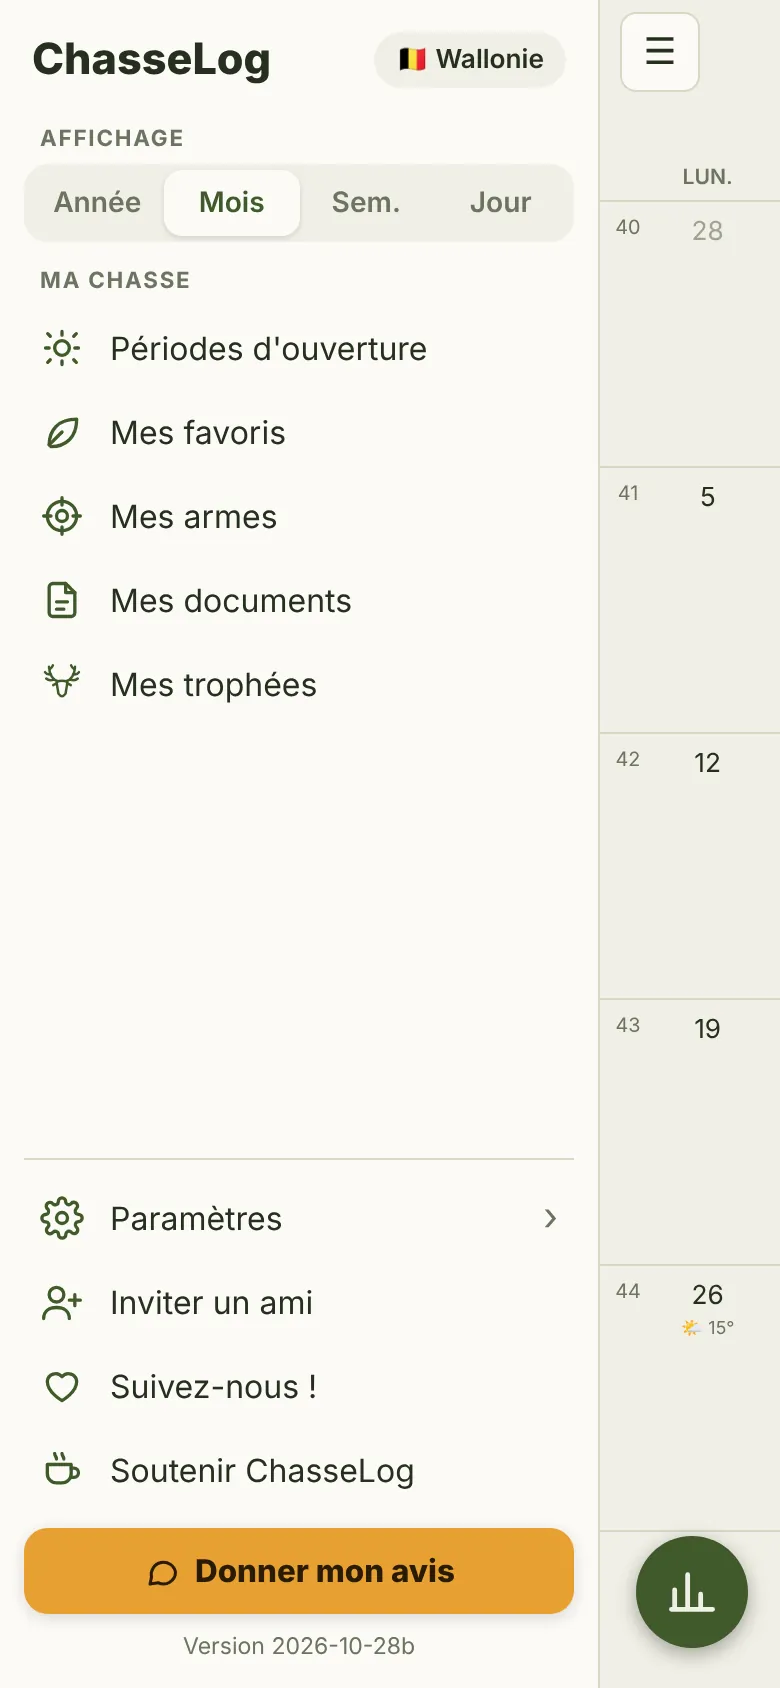
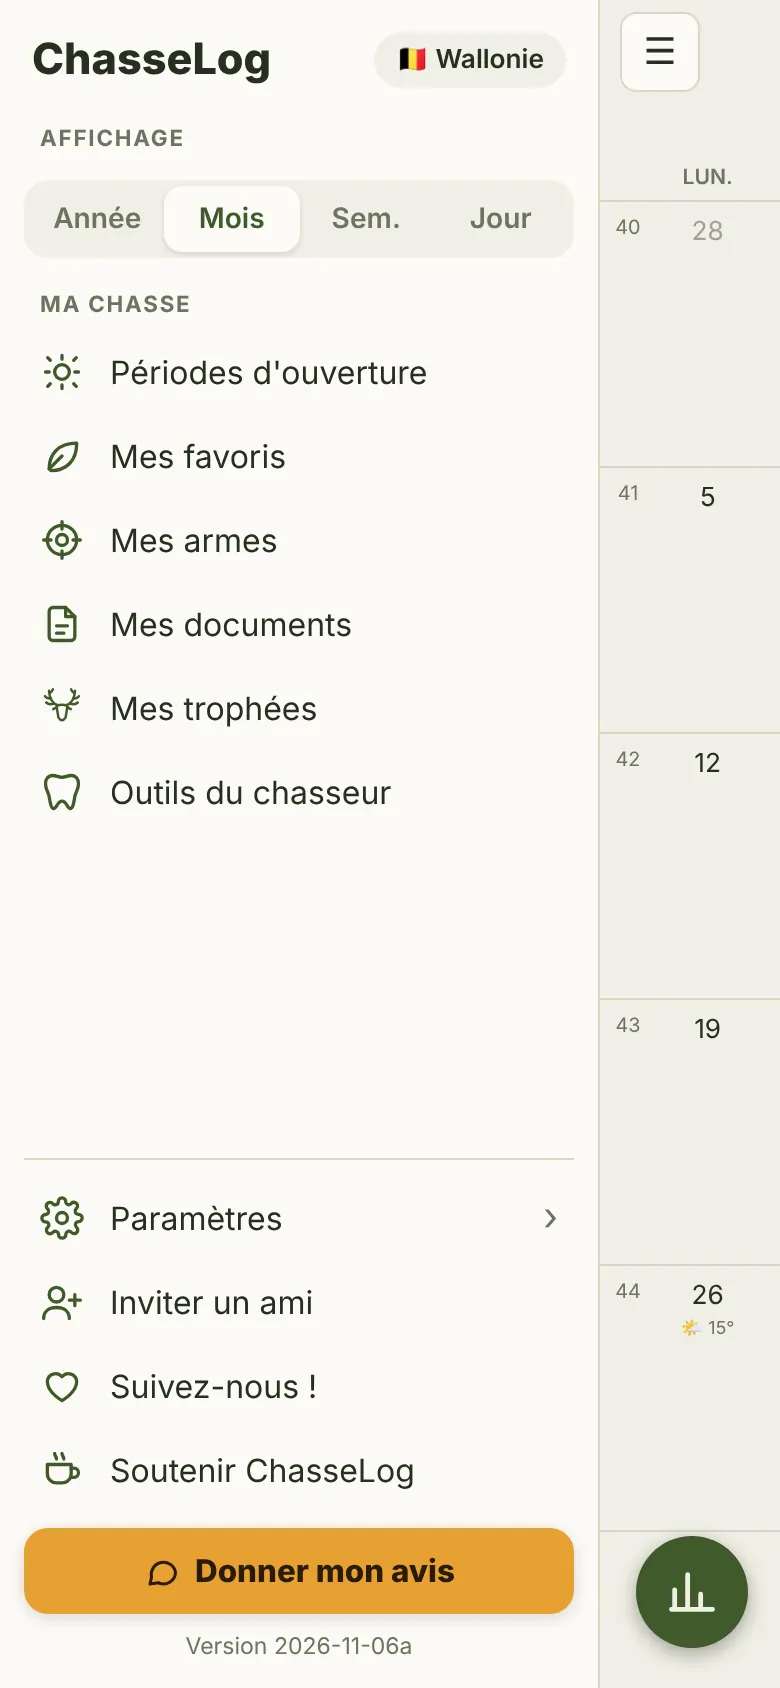
Proposition : visite guidée en 12 étapes (invitation, outils du chasseur, nouveaux écrans menu, journée et statistiques)
Claude-Session: https://claude.ai/code/session_0186hciEuPyU4mgRMjZZiZQe

diff --git a/index.html b/index.html
@@ -842,17 +842,19 @@ let BIP=null;addEventListener("beforeinstallprompt",e=>{e.preventDefault();BIP=e
  })();
 
 /* ---------- visite guidée « Découvre l'application » ---------- */
-const TAPS={"bang":[195,793],"cpl":[283.1,101.5],"dadd":[195,129.1],"dvid":[73.3,421.8],"fab":[344,796],"fsave":[261.3,804.8],"kg":[250,501.3],"mdoc":[149.5,300],"mn":[30,26],"mtro":[149.5,342],"muok":[285,807],"ok":[261.3,813.9],"om":[198.2,156.9],"ouv":[149.5,174],"plus":[80.7,200.5],"psok":[330.8,762.3],"pst":[195,26],"sang":[71.7,172.8],"save":[285.5,813],"share":[195,152.3],"sprev":[258,80.6],"stats":[46,796],"tabplus":[344,464.2],"tb":[195,458],"tgg":[195,484.5],"tgrid":[351.5,171.6],"title":[195,276.5],"tka":[329,501.3],"tok":[195,807.2],"tro1":[249,523.3]};
+const TAPS={"bang":[195,793],"cpl":[283.1,101.5],"dadd":[195,129.1],"dvid":[73.3,421.8],"fab":[344,796],"fsave":[261.3,804.8],"kg":[250,501.3],"mdoc":[149.5,312],"mn":[30,26],"mtro":[149.5,354],"muok":[285,807],"ok":[261.3,813.9],"om":[198.2,156.9],"ouv":[149.5,186],"plus":[80.7,200.5],"psok":[330.8,762.3],"pst":[195,26],"sang":[71.7,172.8],"save":[285.5,813],"share":[195,152.3],"sprev":[258,80.6],"stats":[46,796],"tabplus":[344,464.2],"tb":[195,458],"tgg":[195,484.5],"tgrid":[351.5,171.6],"title":[195,276.5],"tka":[329,501.3],"tok":[195,807.2],"tro1":[249,523.3],"mout":[149.5,396],"oiv":[195,654]};
 // étapes : [titre, texte, actions]. Actions : ["s",écran] afficher, ["sl",écran] défiler, ["t",bouton] toucher, ["n",note] note jaune, ["w",ms] attendre, ["r",bouton] anneau, ["i",image] image par-dessus
 const TOUR=[
  ["Consulte les périodes d'ouverture","Les dates d'ouverture et de fermeture du gibier dans ta région (Wallonie ou ton département en France), selon ton mode de chasse.",[["s","cal0"],["w",1400],["t","mn"],["s","drawer"],["w",1500],["t","ouv"],["s","ouv0"],["n","Ce qui est ouvert aujourd'hui, avec la frise de la saison"],["w",3200],["t","om"],["s","ouv1"],["n","Choisis ton mode : battue, approche et affût, chasse à vol"],["w",2800],["sl","ouv2"],["w",1500]]],
  ["Ajoute une journée de chasse","Touche + pour créer ta journée : titre, type de chasse, heure de rendez-vous et lieu.",[["s","cal0"],["w",1300],["t","fab"],["s","form0"],["n","La météo et les heures de lever et coucher du soleil s'affichent"],["w",3000],["t","title"],["s","form1"],["n","Le lieu se remplit tout seul si tu l'as déjà utilisé"],["w",3000],["t","save"],["s","calday"],["w",1500]]],
+ ["Invite un ami à ta journée","Envoie-lui l'invitation par WhatsApp ou SMS : la journée arrive toute prête dans son ChasseLog.",[["s","inv0"],["w",1300],["t","oiv"],["s","inv1"],["n","Écris son prénom, puis envoie le lien"],["w",3000],["s","inv2"],["n","Sa réponse met ta journée à jour"],["w",2800]]],
  ["Le jour J, le bouton BANG apparaît","Le jour de ta chasse, un gros bouton BANG s'affiche en bas du calendrier.",[["s","calday"],["w",900],["r","bang"],["w",3500]]],
  ["Encode ton numéro de poste","Touche « N° de poste » en haut de l'écran. Il reste affiché toute la journée.",[["s","calday"],["w",1200],["t","pst"],["s","poste"],["n","Tape ton numéro, puis valide"],["w",2600],["t","psok"],["s","calposte"],["n","« Poste n° 7 » reste affiché jusqu'au soir"],["w",2500]]],
  ["Un tir ? Appuie sur BANG !","Au poste, ton tir est encodé en quelques secondes. Le reste se complète le soir.",[["s","calposte"],["w",1200],["t","bang"],["s","pick"],["n","Choisis le gibier"],["w",2600],["t","sang"],["s","quick0"],["n","Choisis le résultat : prélevé, manqué ou blessé"],["w",2800],["t","plus"],["s","quick1"],["n","Le nombre d'animaux, les munitions, ta position GPS, et le sexe pour un sanglier"],["w",3400],["t","ok"],["s","calsaved"],["n","C'est enregistré !"],["w",2200]]],
  ["Complète les infos en fin de journée","Le soir, ChasseLog te rappelle ce qu'il manque : poids vidé, cors, sexe, photo, tableau final et munitions.",[["s","calmd"],["n","Un rappel apparaît en fin de journée"],["w",2600],["t","cpl"],["s","fiche0"],["w",1500],["sl","fiche1"],["w",900],["t","kg"],["s","fiche2"],["n","Le poids vidé et la photo de chaque animal"],["w",3000],["sl","fiche2b"],["w",1200],["t","tb"],["s","tab1"],["n","Encode le tableau final de toute l'équipe"],["w",2400],["t","tgg"],["s","tab1b"],["w",1200],["t","tabplus"],["s","tab2"],["w",1800],["s","tab3"],["w",900],["t","tok"],["s","fiche3"],["w",1300],["t","fsave"],["s","mun0"],["n","Vérifie tes munitions de la journée"],["w",2800],["t","muok"],["s","sum0"],["n","Le résumé de ta journée"],["w",2600]]],
  ["Partage ta journée","Choisis le style et ce que tu affiches, puis partage ou télécharge une belle image de ta journée.",[["s","sum0"],["w",1300],["t","share"],["i","share"],["w",4000]]],
  ["Garde tes plus beaux trophées","Touche le massacre d'un grand gibier prélevé : il rejoint Mes trophées, avec sa photo, son lieu et ses mensurations.",[["s","fiche2"],["w",1300],["t","tka"],["s","fiche2t"],["n","L'animal est ajouté à Mes trophées"],["w",2600],["s","cal0"],["w",900],["t","mn"],["s","drawer"],["w",1200],["t","mtro"],["s","tro0"],["n","Tous tes trophées, avec leur photo"],["w",3000],["t","tro1"],["s","tro1a"],["n","Le lieu, la position du tir, l'arme…"],["w",3000],["sl","tro1"],["n","Les cors à gauche et à droite, les mensurations et un souvenir"],["w",3400],["s","tro0"],["w",900],["t","tgrid"],["s","tro2"],["n","Ou en grille, comme un tableau"],["w",2800]]],
+ ["Estime l'âge de ton gibier","Menu ☰ › Outils du chasseur : l'âge par la dentition pour le chevreuil, le sanglier, le cerf et le daim.",[["s","cal0"],["w",1000],["t","mn"],["s","drawer"],["w",1200],["t","mout"],["s","dent0"],["n","Compare la mâchoire aux schémas"],["w",3000],["s","dent1"],["n","Ou réponds à quelques questions, puis note l'âge sur ton trophée"],["w",3200]]],
  ["Consulte tes statistiques","La saison en cours et les saisons passées : réussite, prélèvements, records, poste porte-bonheur…",[["s","cal2"],["w",1200],["t","stats"],["s","stats0"],["n","Journées, prélèvements et réussite"],["w",3500],["sl","stats1"],["n","Tes records, ton poste porte-bonheur, tes résultats par arme"],["w",3800],["sl","stats3"],["n","Compare tes saisons et tes lieux de chasse"],["w",3500],["s","stats0"],["w",1000],["t","sprev"],["s","statsP"],["n","Revois une saison passée"],["w",3000]]],
  ["Tes documents toujours à portée de main","Ajoute ton permis de chasse, ton attestation d'assurance et ta carte d'identité : tout est dans ton téléphone, même sans réseau.",[["s","cal0"],["w",1200],["t","mn"],["s","drawer"],["w",1300],["t","mdoc"],["s","docs0"],["n","Prends une photo ou choisis un fichier"],["w",2600],["t","dadd"],["s","docs1"],["n","Indique la date de fin de validité de ton permis et de ton assurance"],["w",3200],["sl","docs1b"],["w",900],["t","dvid"],["s","docs2"],["n","Montre-les en un geste lors d'un contrôle"],["w",3000]]]
 ];

diff --git a/CLAUDE.md b/CLAUDE.md
@@ -30,7 +30,7 @@ Cible : chasseurs belges (Wallonie surtout) et français. Propriétaire : Maxime
 - `main` = production (GitHub Pages → chasselog.be). **Ne jamais pousser directement sur `main` sans accord explicite.**
 - Nouvelle idée : branche `prep-<sujet>`, commits « Proposition : … » ou « Maquette : … », puis validation par Maxime.
 - Mise en production : commit « Version AAAA-MM-JJx : résumé » qui incrémente **ensemble** `APP_V` dans `index.html` et `V = "carnet-vNN"` dans `sw.js` (sinon les téléphones ne voient pas la mise à jour).
-- Si un écran change, vérifier si la visite guidée (`tour/*.webp`, 10 étapes) et les visuels `promo/` doivent être refaits.
+- Si un écran change, vérifier si la visite guidée (`tour/*.webp`, 12 étapes) et les visuels `promo/` doivent être refaits.
 
 ## Produit et ton
 - Sobre et indépendant : pas de charte ni de lien d'un club ou partenaire imposé dans l'app.
